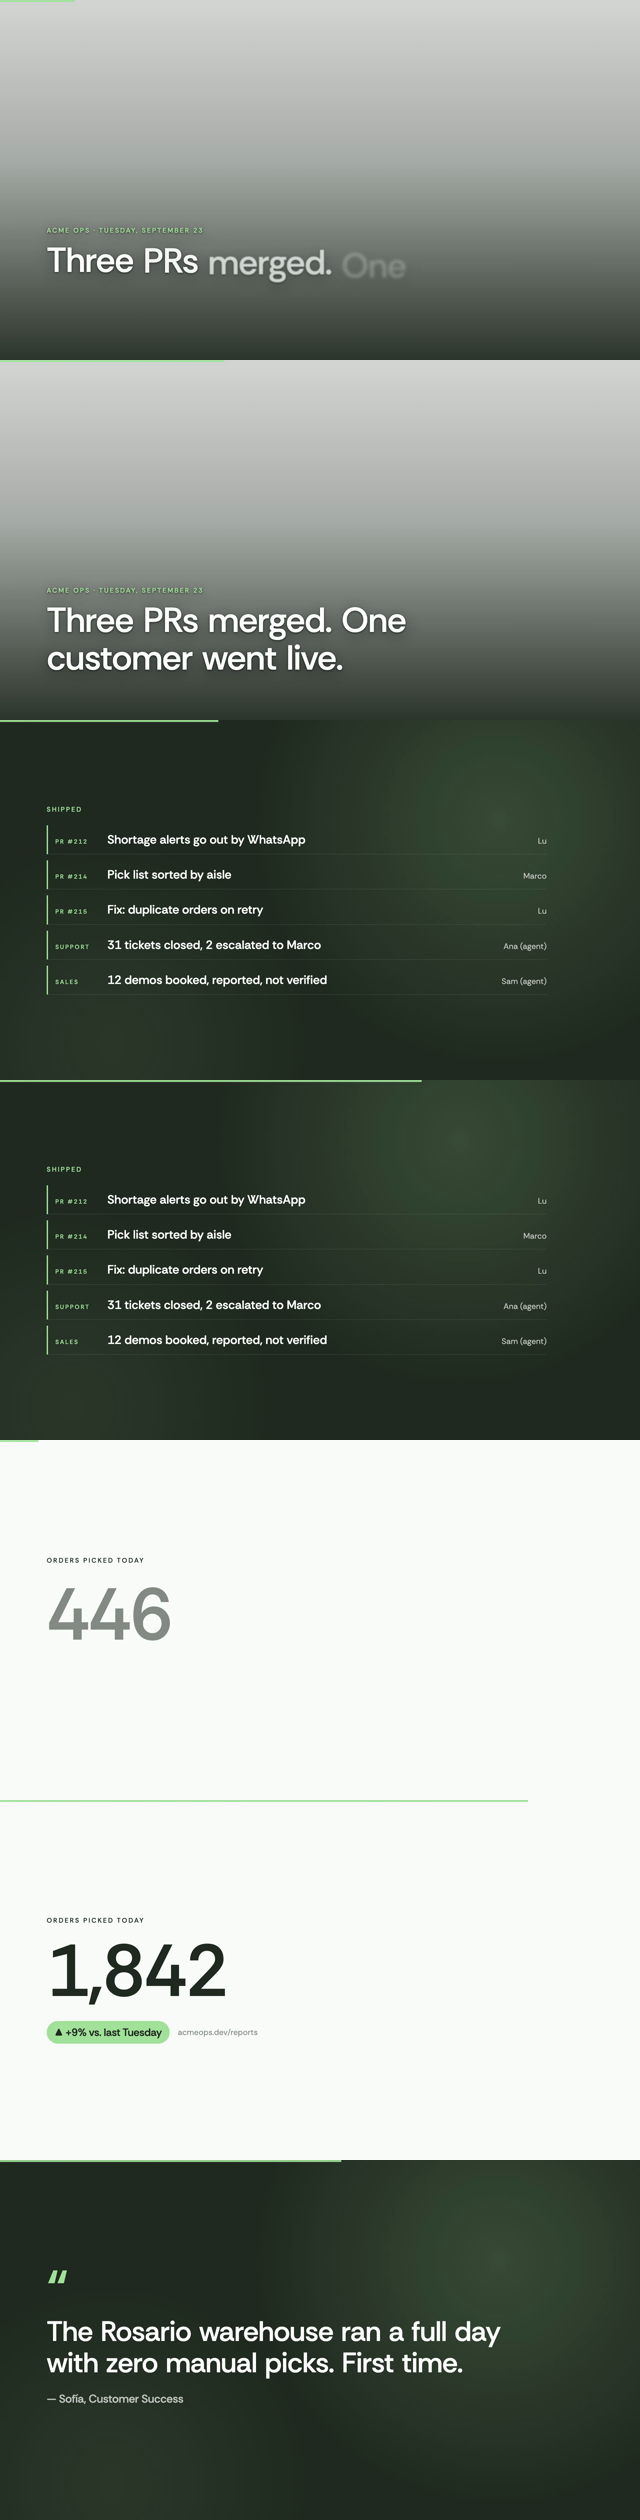
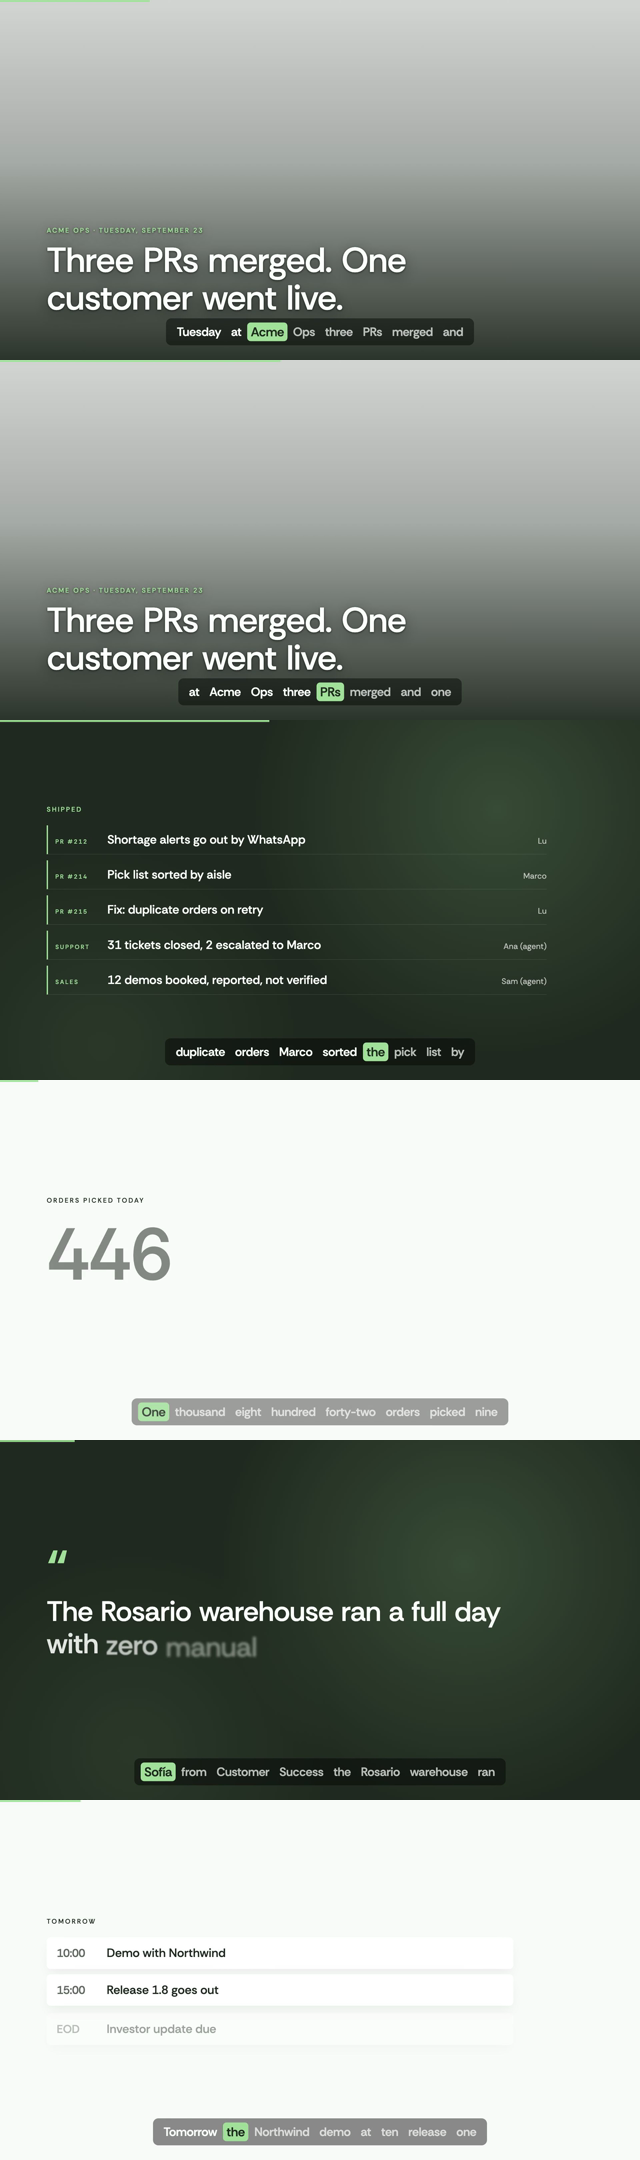
Captions that light up with the voice: word timings from edge-tts, the spoken word on an accent chip
scripts/tts.py streams the voice with WordBoundary events and writes the word times next
to the clip; narrate.mjs stores them in the narration block; Captions renders a window of
words around the one being said. Free, and never guessed.

diff --git a/video/src/pieces.tsx b/video/src/pieces.tsx
@@ -337,6 +337,40 @@ export function Agenda({ p, label, items, total }: { p: Palette; label: string; 
   );
 }
 
+/**
+ * Captions that light up with the voice, the way short-form video does it: the spoken
+ * sentence at the bottom, the word being said on an accent chip, what was said in light,
+ * what is coming dimmed. Word times come from the voice engine, so they are never guessed.
+ */
+export function Captions({ p, lines }: { p: Palette; lines: { at: number; words: { w: string; s: number; e: number }[] }[] }) {
+  const f = useCurrentFrame();
+  const { fps } = useVideoConfig();
+  const { pad, portrait } = useLayout();
+  const t = f / fps;
+  const line = lines.find((l) => t >= l.at - 0.2 && t <= l.at + (l.words[l.words.length - 1]?.e ?? 0) + 0.6);
+  if (!line) return null;
+  const idx = line.words.findIndex((w) => t < line.at + w.e);
+  const cur = idx === -1 ? line.words.length - 1 : idx;
+  // A window of words around the current one, so a long sentence never overflows two lines.
+  const span = portrait ? 5 : 8;
+  const from = Math.max(0, Math.min(cur - Math.floor(span / 2), line.words.length - span));
+  const shown = line.words.slice(from, from + span);
+  const alpha = interpolate(t, [line.at - 0.2, line.at], [0, 1], clamp);
+  return (
+    <div style={{ position: 'absolute', left: pad, right: pad, bottom: portrait ? pad * 1.2 : 44, display: 'flex', justifyContent: 'center', opacity: alpha, pointerEvents: 'none' }}>
+      <div style={{ display: 'flex', flexWrap: 'wrap', justifyContent: 'center', gap: '6px 10px', padding: '14px 22px', borderRadius: 16, background: 'rgba(0,0,0,0.45)', backdropFilter: 'blur(6px)', maxWidth: '100%' }}>
+        {shown.map((w, i) => {
+          const k = from + i;
+          const active = k === cur, past = k < cur;
+          return (
+            <span key={k} style={text(T.title, { color: active ? p.ink : past ? p.light : p.lightMid, fontSize: portrait ? 40 : 36, fontWeight: 600, padding: '4px 10px', borderRadius: 10, background: active ? p.accent : 'transparent', transform: active ? 'scale(1.06)' : 'none', transition: 'none' })}>{w.w}</span>
+          );
+        })}
+      </div>
+    </div>
+  );
+}
+
 /** Brand, URL, CTA on the accent color. Ink text on accent: the accent is never text. */
 export function Closing({ p, cta, total, credit }: { p: Palette; cta: string; total: number; credit: boolean }) {
   const f = useCurrentFrame();

diff --git a/video/src/Video.tsx b/video/src/Video.tsx
@@ -1,5 +1,5 @@
 import { AbsoluteFill, Audio, Sequence, interpolate, staticFile } from 'remotion';
-import { Agenda, Chips, Closing, Cover, Events, Fonts, Metric, Numbers, Quote, Screen, Title } from './pieces';
+import { Agenda, Captions, Chips, Closing, Cover, Events, Fonts, Metric, Numbers, Quote, Screen, Title } from './pieces';
 import { FPS, frames, sceneStarts, totalFrames, type Script } from './script';
 import { palette } from './style';
 
@@ -45,6 +45,7 @@ export function Video(script: Script) {
       {narration.map((n) => (
         <Sequence key={n.file} from={frames(n.at)} layout="none"><Audio src={staticFile(n.file)} /></Sequence>
       ))}
+      <Captions p={p} lines={narration.filter((n) => n.words?.length).map((n) => ({ at: n.at, words: n.words! }))} />
       {script.music && (
         <Audio
           src={staticFile(script.music)}

diff --git a/video/src/script.ts b/video/src/script.ts
@@ -45,7 +45,8 @@ export type Scene =
   /** Brand, URL and the call to action, on the accent color. */
   | { type: 'closing'; cta: string; seconds: number; voice?: string };
 
-export type Narration = { file: string; at: number; seconds: number; text: string };
+/** One spoken line. `words` carries the engine's word timings (seconds from the clip's start) for captions. */
+export type Narration = { file: string; at: number; seconds: number; text: string; words?: { w: string; s: number; e: number }[] };
 
 export type Script = {
   brand: Brand;

diff --git a/video/scripts/tts.py b/video/scripts/tts.py
@@ -1,0 +1,27 @@
+"""Free neural voice with word timings, through edge-tts (Microsoft voices, no key).
+
+  tts.py <voice> <out.mp3> <out.json> < text
+
+Writes the mp3 and a JSON list of words [{"w": "Hello", "s": 0.05, "e": 0.31}] in seconds
+from the start of the clip, from the service's own word boundaries. The renderer uses them
+for captions that light up with the voice.
+"""
+import asyncio, json, sys
+import edge_tts
+
+voice, out_mp3, out_json = sys.argv[1], sys.argv[2], sys.argv[3]
+text = sys.stdin.read().strip()
+
+async def run():
+    words = []
+    with open(out_mp3, "wb") as f:
+        async for chunk in edge_tts.Communicate(text, voice, rate="+4%", boundary="WordBoundary").stream():
+            if chunk["type"] == "audio":
+                f.write(chunk["data"])
+            elif chunk["type"] == "WordBoundary":
+                s = chunk["offset"] / 1e7
+                words.append({"w": chunk["text"], "s": round(s, 3), "e": round(s + chunk["duration"] / 1e7, 3)})
+    json.dump(words, open(out_json, "w"))
+    print(f"{len(words)} words · {words[-1]['e'] if words else 0}s")
+
+asyncio.run(run())
